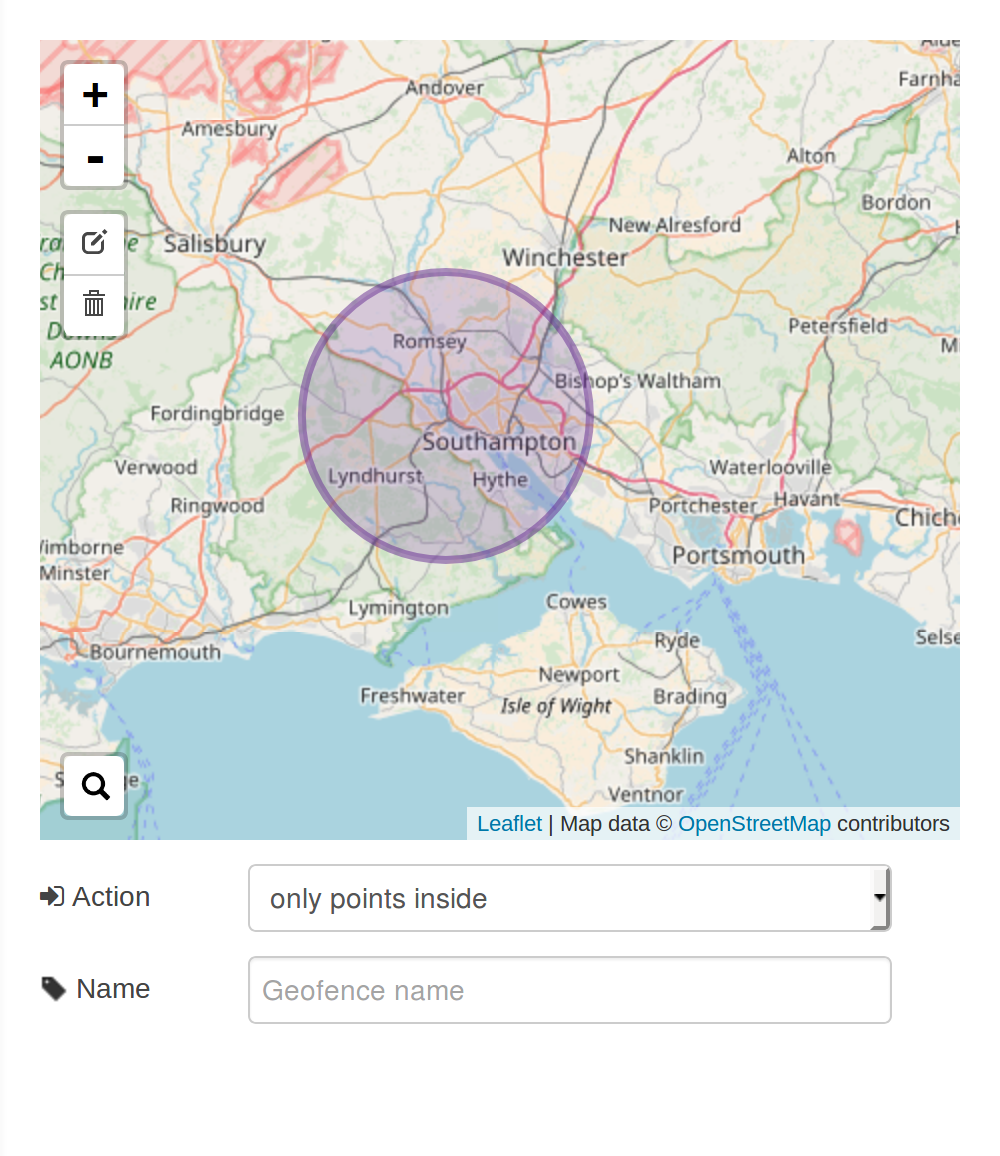
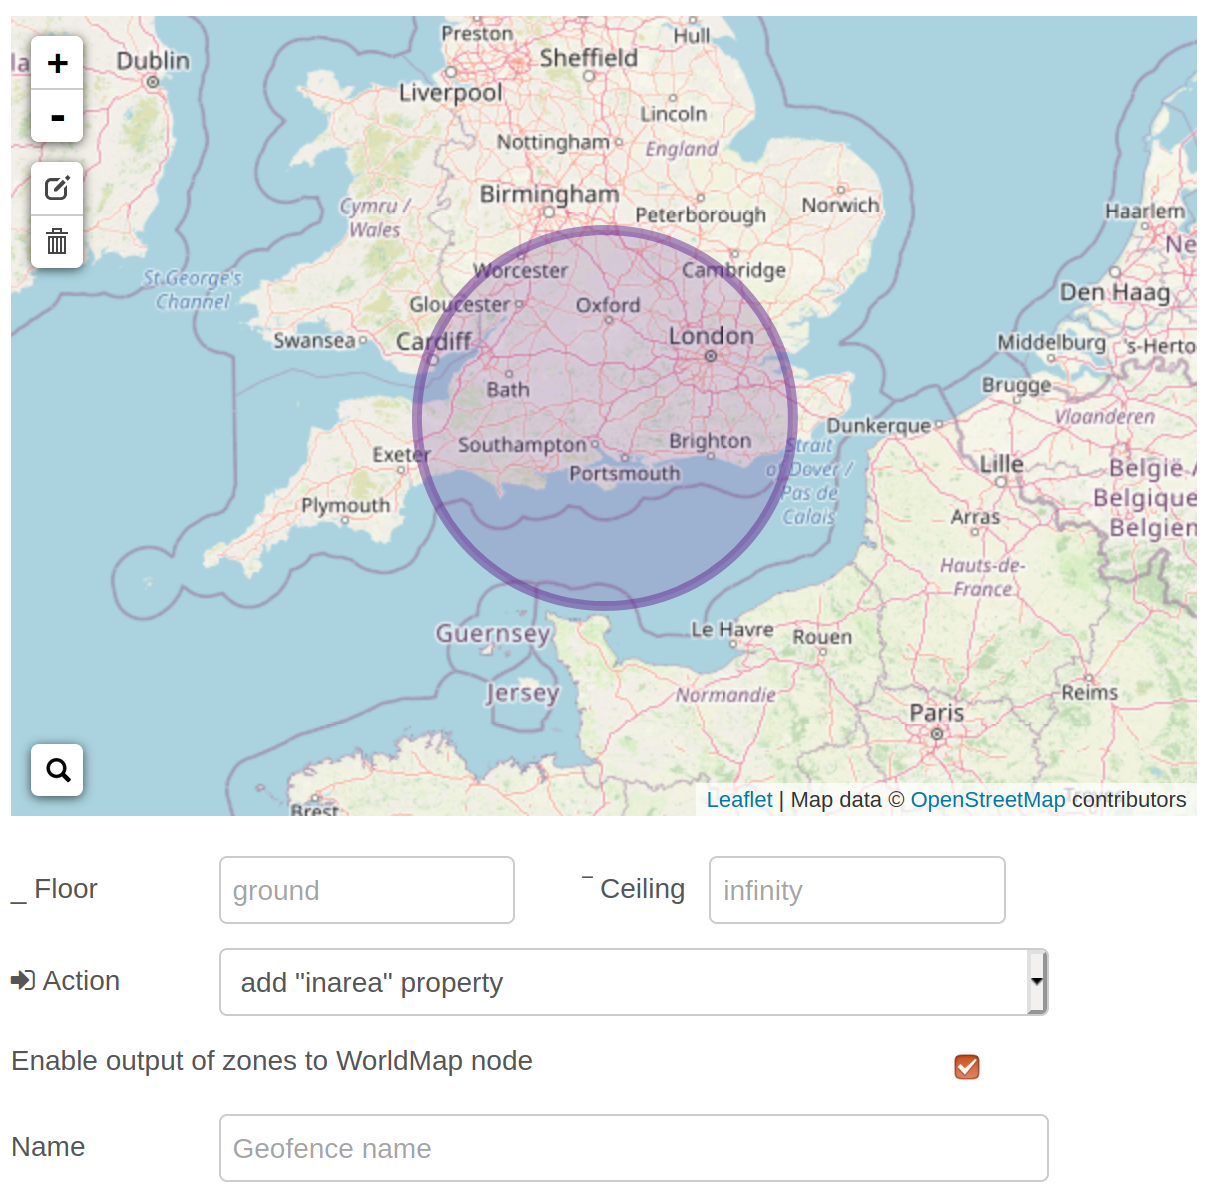
Update README.md

diff --git a/README.md b/README.md
@@ -51,3 +51,12 @@ These are arround the "add 'inarea'" mode
  node that the message passes through
  - msg.location.distances is now just an object using the name as a key, rather than 
  an array of objects
+
+ ## WorldMap Support
+
+ If the check box is ticked then a second output port will be added to the node. The `msg`
+ output from this port will include the shape of the geofence zone that can be fed directly
+ into a WorldMap node so that it will be drawn on the geofence layer.
+
+ This output is triggered by a message with `msg.payload.action` set to `send`. This can be 
+ initiated by using the WorldMap in node when a new browser connects.
